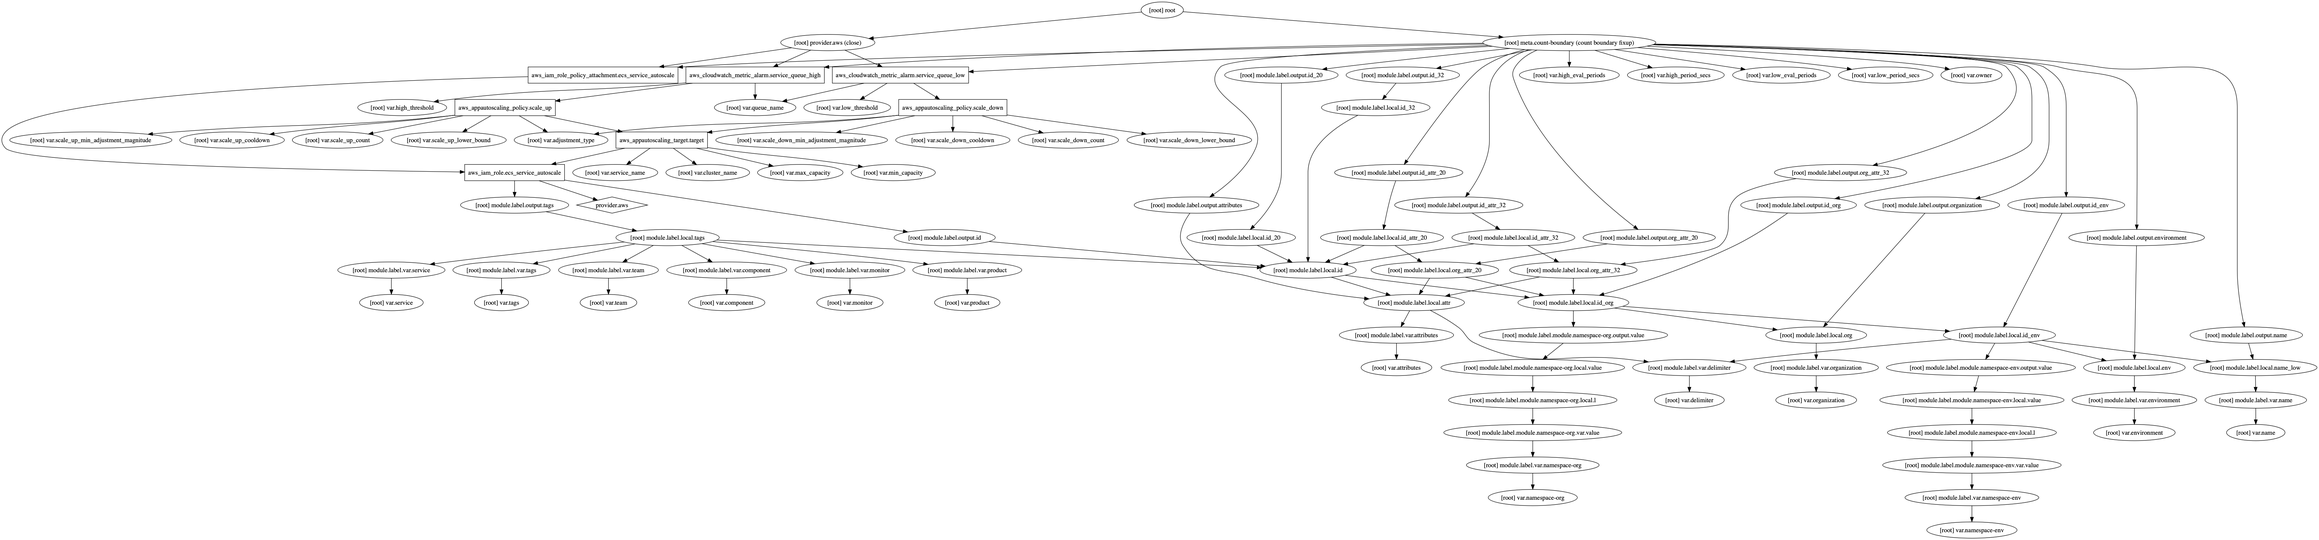
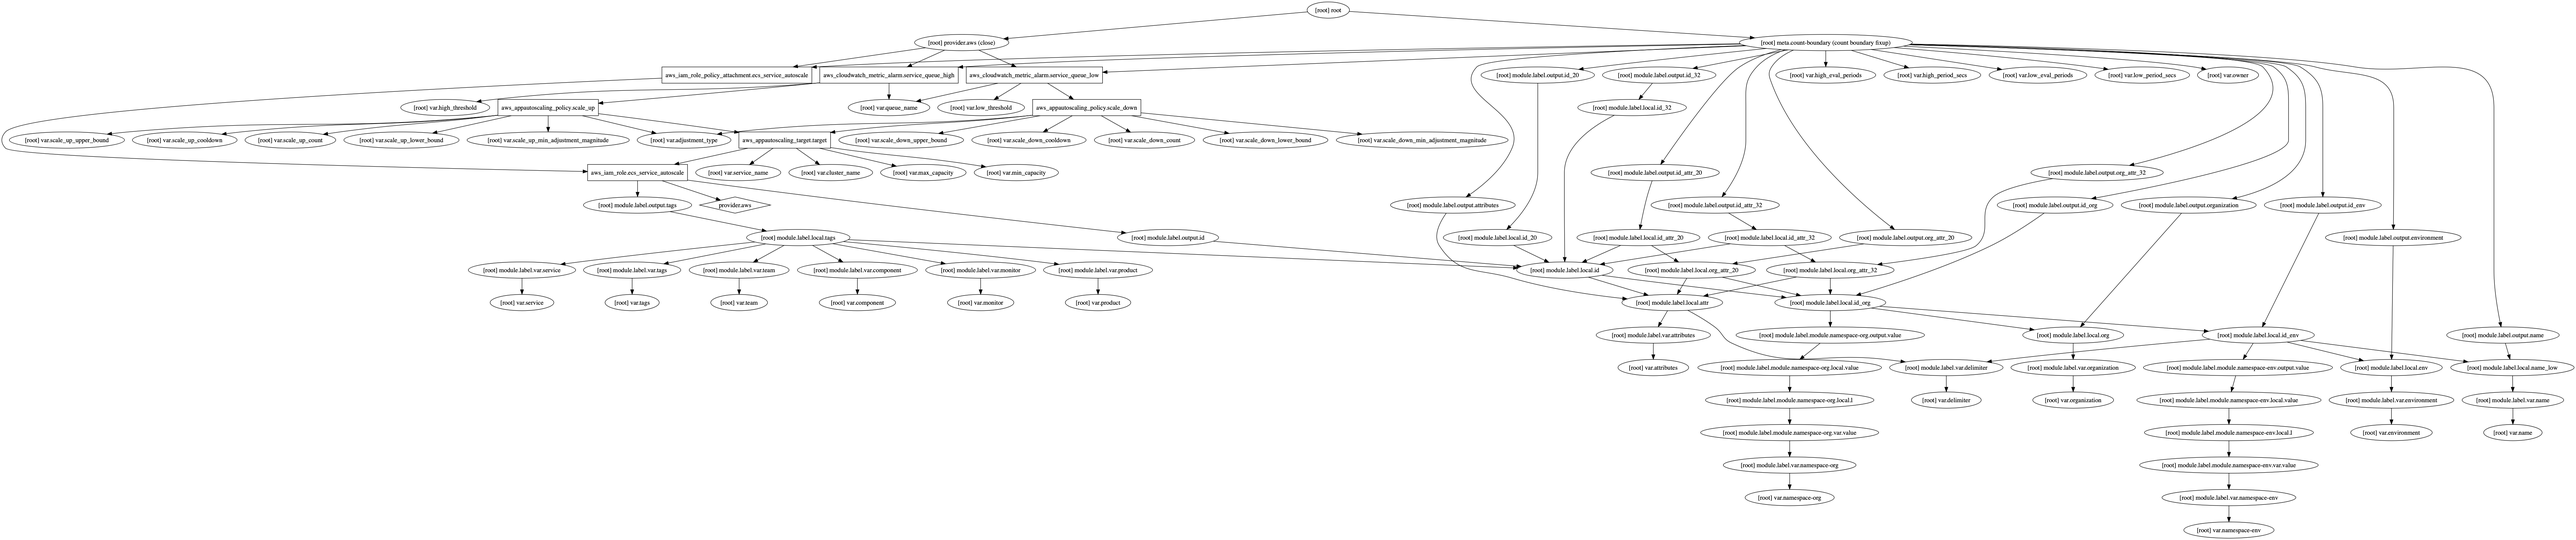
Expose upper bound scaling settings

diff --git a/README.md b/README.md
@@ -48,12 +48,14 @@ module "" {
 | queue\_name | Name of SQS queue to monitor | string | n/a | yes |
 | scale\_down\_cooldown | The amount of time, in seconds, after a scaling down completes and before the next scaling activity can start | string | `"60"` | no |
 | scale\_down\_count | The number of members by which to scale down, when the adjustment bounds are breached. Should always be negative value | string | `"-3"` | no |
-| scale\_down\_lower\_bound | The lower bound for the difference between the alarm threshold and the CloudWatch metric. Without a value, AWS will treat this bound as negative infinity | string | `"0"` | no |
+| scale\_down\_lower\_bound | The lower bound for the difference between the alarm threshold and the CloudWatch metric. Without a value, AWS will treat this bound as negative infinity | string | `""` | no |
 | scale\_down\_min\_adjustment\_magnitude | Minimum number of tasks to scale down at a time | string | `"10"` | no |
+| scale\_down\_upper\_bound | The upper bound for the difference between the alarm threshold and the CloudWatch metric. Without a value, AWS will treat this bound as infinity | string | `"0"` | no |
 | scale\_up\_cooldown | The amount of time, in seconds, after a scaling up completes and before the next scaling up can start | string | `"60"` | no |
 | scale\_up\_count | The number of members by which to scale up, when the adjustment bounds are breached. Should always be positive value | string | `"5"` | no |
 | scale\_up\_lower\_bound | The lower bound for the difference between the alarm threshold and the CloudWatch metric. Without a value, AWS will treat this bound as negative infinity | string | `"0"` | no |
 | scale\_up\_min\_adjustment\_magnitude | Minimum number of tasks to scale up at a time | string | `"10"` | no |
+| scale\_up\_upper\_bound | The upper bound for the difference between the alarm threshold and the CloudWatch metric. Without a value, AWS will treat this bound as infinity | string | `""` | no |
 | service | TAG: Application (microservice) name | string | `"UNDEF-ECSAutoScaleSQS"` | no |
 | service\_name | Name of ECS service to autoscale | string | n/a | yes |
 | tags | A map of additional tags | map | `<map>` | no |
